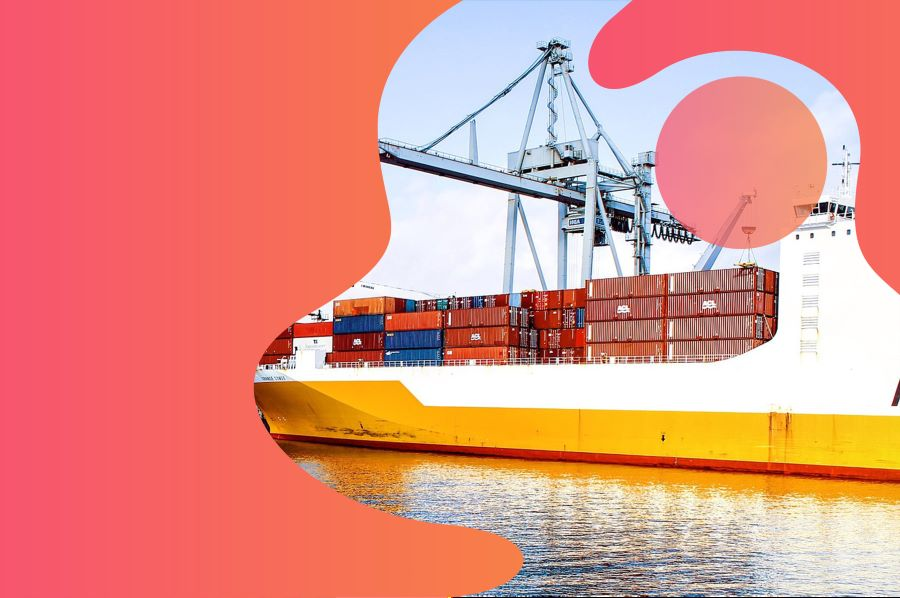
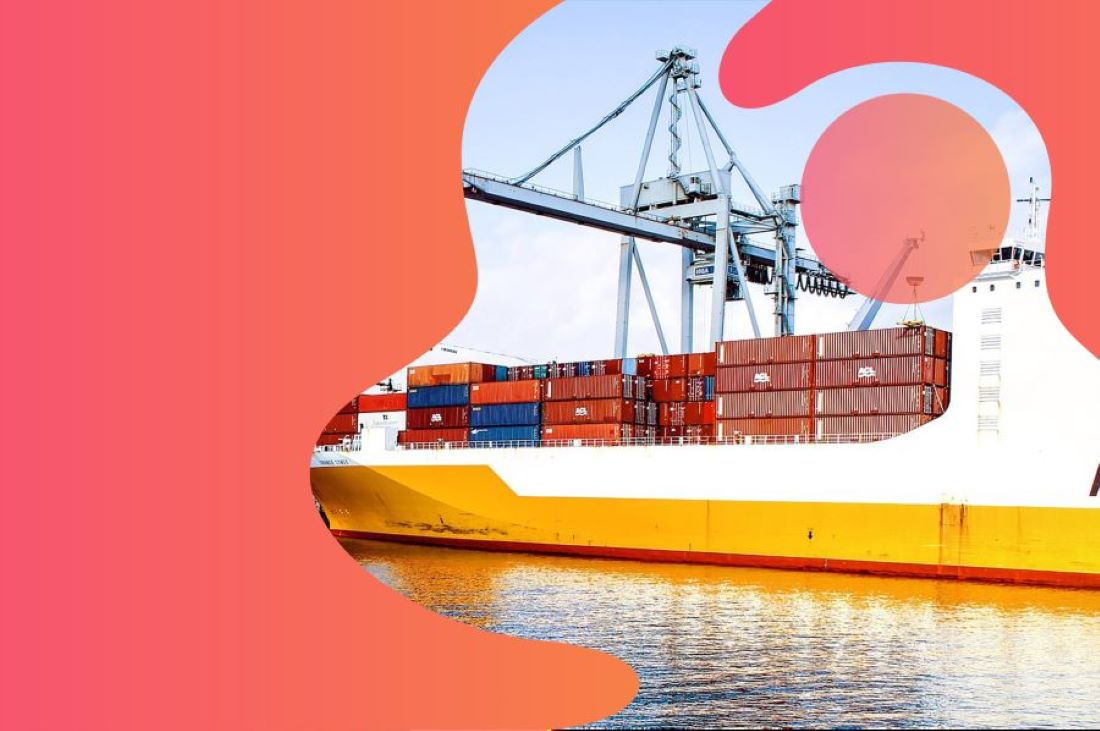
Add files via upload

diff --git a/mobile-styles.css b/mobile-styles.css
@@ -161,10 +161,10 @@ opacity: 1;
 }
 
 .photo2{
-	margin-top: 7%;
-	margin-left: 7%;
-	height:86%;
-	width:86%;
+	margin-top: 5%;
+	margin-left: 5%;
+	height:90%;
+	width:90%;
 	border-radius: 50%; 
 	overflow:hidden;
 }
@@ -229,7 +229,7 @@ line-height:83px;
 
 .zuo{
 	float: left;
-	height:100%;
+	height:550px;
 	width:23%;
 }
 
@@ -237,7 +237,7 @@ line-height:83px;
 	position: relative;
     top: 0.03%;
     border-radius: 50%;
-	height:70%;
+	height:50%;
 	width:100%;
 	background-image: url("pic/6.jpg");
 }
@@ -246,7 +246,7 @@ line-height:83px;
 	position: relative;
     top: 21%; 
     border-radius: 50%;
-	height:70%;
+	height:50%;
 	width:100%;
 	background-image: url("pic/6.jpg");
 }
@@ -255,8 +255,8 @@ line-height:83px;
 	overflow:hidden;
 	margin-top: 5%;
 	margin-left: 5%;
-	width:100%;
-	height:70%;
+	width:90%;
+	height:90%;
 	border-radius: 50%;
 	background-color: white;
 }
